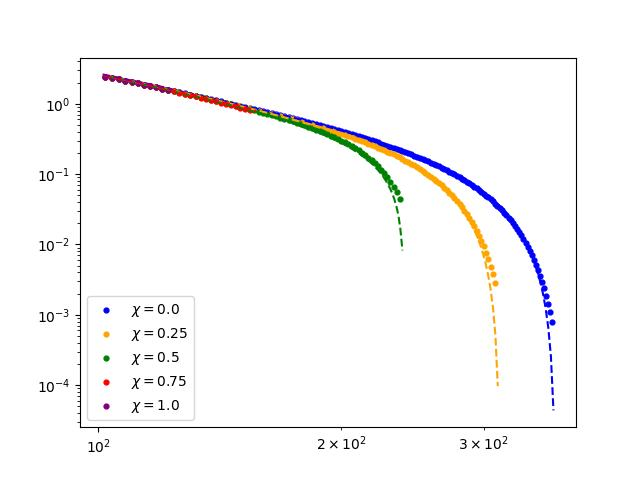
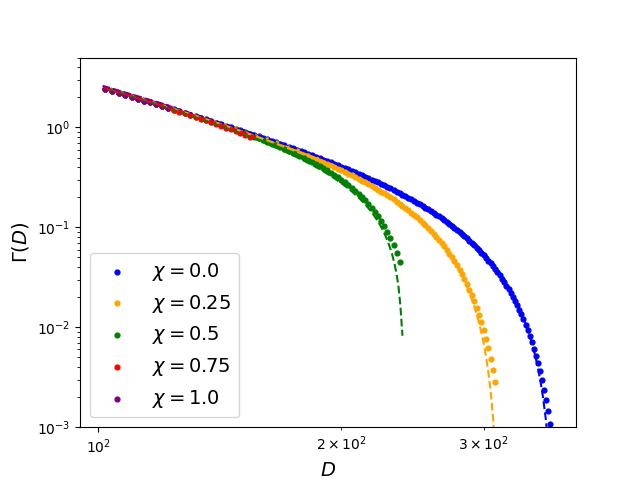
new figures

diff --git a/main.py b/main.py
@@ -5,70 +5,129 @@ import warnings
 warnings.filterwarnings('ignore')
 
 if __name__ == "__main__":
-    # for chi in [0.0, 0.25, 0.5, 0.75, 1.0]:
-    #     fb = FlatBrush(N=100, sigma=0.1, chi=chi)
-    #     plt.plot(fb.z, fb.phi, label=f"$\chi={chi}$")
-    # plt.legend()
-    # plt.show()
-    
     N = 500
     sigma = 0.1
     colors = {0.0: 'blue', 0.25: 'orange', 0.5: 'green', 0.75: 'red', 1.0: 'purple'}
+    
+    # L on D
+    # plt.figure(figsize=(8.2, 6.0))
     for chi in [0.0, 0.25, 0.5, 0.75, 1.0]:
         tb = TwoBrush(N, sigma, chi)
         X = np.loadtxt(f'chi{chi}.txt')
         D = X[0]
         L = X[1]
-        # F = X[-1]
-        # Pi = -np.diff(F)/np.diff(D)
-        # D = 0.5*(D[1:] + D[:-1])
-        # plt.plot(X[0], X[3], 'o')
         plt.scatter(D[1:-1:2], L[1:-1:2],s=12,marker='o', color=colors[chi], label=f"$\chi={chi}$")
         if chi == 0.0:
             plt.plot(2*tb.d, [tb.overlap_zone(0.435, d) for d in tb.d], '--', color='black')
     plt.loglog()
-    # plt.ylim(1e-3, 5)
-    plt.legend()
+    plt.yticks([4.0,5.0,6.0],minor=True)
+    # plt.ylim(3, 6)
+    plt.xlabel('$D$', fontsize=14)
+    plt.ylabel('$L(D)$', fontsize=14)
+    plt.legend(fontsize=14)
     plt.savefig('L_on_D.jpg')
     plt.close()
     
     
+    # phi_m on D
+    for chi in [0.0, 0.25, 0.5, 0.75, 1.0]:
+        tb = TwoBrush(N, sigma, chi)
+        X = np.loadtxt(f'chi{chi}.txt')
+        D = X[0]
+        phi_m = X[3]
+        plt.scatter(D[1:-1:5], phi_m[1:-1:5],s=12,marker='o', color=colors[chi], label=f"$\chi={chi}$")
+        plt.plot(2*tb.d, [tb.phi_midplace(d) for d in tb.d], '--', color=colors[chi])
+    plt.loglog()
+    # plt.ylim(1, 10)
+    plt.xlabel('$D$', fontsize=14)
+    plt.ylabel(r'$\varphi_m(D)$', fontsize=14)
+    plt.legend(fontsize=14)
+    plt.savefig('phi_m_on_D.jpg')
+    plt.close()
+    
+    # Gamma on D
     for chi in [0.0, 0.25, 0.5, 0.75, 1.0]:
         tb = TwoBrush(N, sigma, chi)
         X = np.loadtxt(f'chi{chi}.txt')
         D = X[0]
         L = X[1]
         G = X[2]
-        # F = X[-1]
-        # Pi = -np.diff(F)/np.diff(D)
-        # D = 0.5*(D[1:] + D[:-1])
-        # plt.plot(X[0], X[3], 'o')
         plt.scatter(D[1:-1:2], G[1:-1:2],s=12,marker='o', color=colors[chi], label=f"$\chi={chi}$")
         plt.plot(2*tb.d, [tb.overlap_integral(0.2, d) for d in tb.d], '--', color=colors[chi])
     plt.loglog()
-    # plt.ylim(1e-3, 5)
-    plt.legend()
+    plt.ylim(1e-3, 5)
+    plt.xlabel('$D$', fontsize=14)
+    plt.ylabel('$\Gamma(D)$', fontsize=14)
+    plt.legend(fontsize=14)
     plt.savefig('Gamma_on_D.jpg')
     plt.close()
     
+    # Pi on D
     for chi in [0.0, 0.25, 0.5, 0.75, 1.0]:
         tb = TwoBrush(N, sigma, chi)
         X = np.loadtxt(f'chi{chi}.txt')
         D = X[0]
         L = X[1]
-        G = X[2]
-        F = X[-1]
+        G = X[-1]
+        F = X[-2]
         Pi = -np.diff(F)/np.diff(D)
         D = 0.5*(D[1:] + D[:-1])
         G = 0.5*(G[1:] + G[:-1])
-        # plt.plot(X[0], X[3], 'o')
-        # plt.scatter(D[0:-1:5], G[0:-1:5]/Pi[0:-1:5],s=12,marker='o', color=colors[chi], label=f"$\chi={chi}$")
-        # plt.plot(2*tb.d, [tb.overlap_integral(0.2, d)/tb.pressure(d) for d in tb.d], '--', color=colors[chi])
-        plt.scatter(Pi[0:-1:5], G[0:-1:5]/Pi[0:-1:5],s=12,marker='o', color=colors[chi], label=f"$\chi={chi}$")
-        plt.plot([tb.pressure(d) for d in tb.d], [tb.overlap_integral(0.2, d)/tb.pressure(d) for d in tb.d], '--', color=colors[chi])
+        plt.scatter(D[0:-1:5], Pi[0:-1:5],s=12,marker='o', color=colors[chi], label=f"$\chi={chi}$")
+        plt.plot(2*tb.d, [tb.pressure(d) for d in tb.d], '--', color=colors[chi])
     plt.loglog()
-    # plt.ylim(0, 2)
-    plt.legend()
-    plt.savefig('mu_on_D.jpg')
+    plt.ylim(1e-3, 3)
+    # plt.xlim(1e-3, 3)
+    plt.xlabel('$D$', fontsize=14)
+    plt.ylabel('$\Pi(D)$', fontsize=14)
+    plt.legend(fontsize=14)
+    plt.savefig('Pi_on_D.jpg')
+    plt.close()
+    
+    
+    # f on Pi
+    k = (np.pi - 2) / 4
+    for chi in [0.0, 0.25, 0.5, 0.75, 1.0]:
+        tb = TwoBrush(N, sigma, chi)
+        X = np.loadtxt(f'chi{chi}.txt')
+        D = X[0]
+        L = X[1]
+        G = X[-1]
+        F = X[-2]
+        Pi = -np.diff(F)/np.diff(D)
+        D = 0.5*(D[1:] + D[:-1])
+        G = 0.5*(G[1:] + G[:-1])
+        plt.scatter(Pi[0:-1:5], G[0:-1:5],s=12,marker='o', color=colors[chi], label=f"$\chi={chi}$")
+        plt.plot([tb.pressure(d) for d in tb.d], [k*tb.overlap_integral(0.2, d) for d in tb.d], '--', color=colors[chi])
+    plt.loglog()
+    plt.ylim(1e-3, 3)
+    plt.xlim(1e-3, 3)
+    plt.xlabel('$\Pi$', fontsize=14)
+    plt.ylabel('$f(\Pi)/(V \zeta)$', fontsize=14)
+    plt.legend(fontsize=14)
+    plt.savefig('f_on_Pi.jpg')
+    plt.close()
+    
+    # mu on Pi
+    k = (np.pi - 2) / 4
+    for chi in [0.0, 0.25, 0.5, 0.75, 1.0]:
+        tb = TwoBrush(N, sigma, chi)
+        X = np.loadtxt(f'chi{chi}.txt')
+        D = X[0]
+        L = X[1]
+        G = X[-1]
+        F = X[-2]
+        Pi = -np.diff(F)/np.diff(D)
+        D = 0.5*(D[1:] + D[:-1])
+        G = 0.5*(G[1:] + G[:-1])
+        plt.scatter(Pi[0:-1:5], G[0:-1:5]/Pi[0:-1:5],s=12,marker='o', color=colors[chi], label=f"$\chi={chi}$")
+        plt.plot([tb.pressure(d) for d in tb.d], [k*tb.overlap_integral(0.2, d)/tb.pressure(d) for d in tb.d], '--', color=colors[chi])
+    plt.loglog()
+    plt.ylim(0.05, 10)
+    plt.xlim(1e-3, 3)
+    plt.xlabel('$\Pi$', fontsize=14)
+    plt.ylabel('$\mu/(V \zeta)$', fontsize=14)
+    plt.legend(fontsize=14)
+    plt.savefig('mu_on_Pi.jpg')
     plt.close()
     
